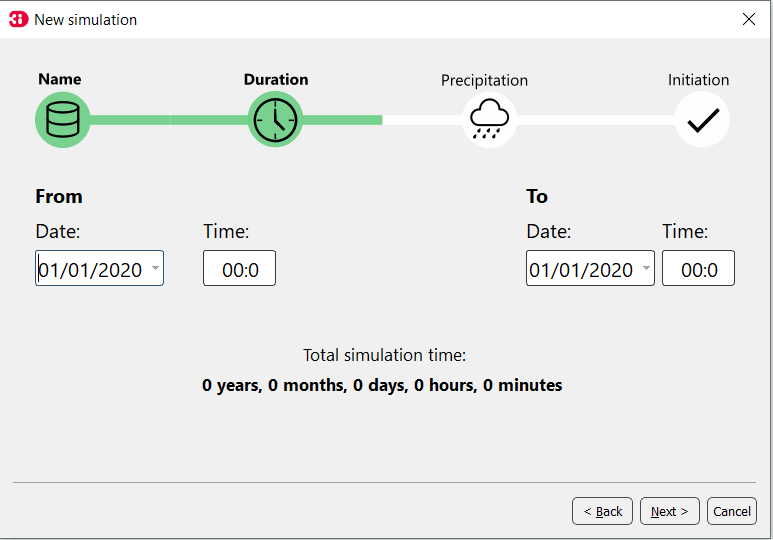
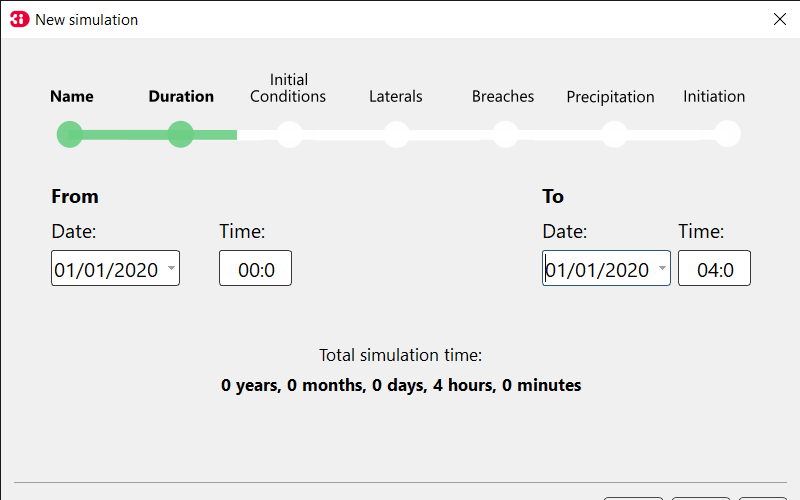
Qgis api client extension (#78)
* wip

* new screenshot

* changed screenshot for duration

* changed screenshot for new simulation

* added part doc on initial conditions

* work in progress documentation

* work in progress documentation

* added breaches

* added description on lizard

* aanpassingen govert

* adjusting story on Modeller Interface

diff --git a/source/d_qgis_plugin.rst b/source/d_qgis_plugin.rst
@@ -5,7 +5,8 @@ Modeller Interface
 
 Introduction
 --------------
-The modeller interface consists of QGIS with a 3Di Toolbox as a QGIS plugin on top for working with 3Di models and netCDF results. Since the Plugin Release of March 4th 2019, the plugin is only supported by QGIS 3.4.5. An older version of the plugin will remain available for QGIS 2.18. 
+The Modeller Interface is the interface to use on your laptop to build and analyse 3Di models and results locally. To do this, no internet connection is required. It is also the interface to interact with the API and download results from the 3Di calculation servers. It consists of QGIS with a preinstalled plugins: 3Di Toolbox to analyse results, 3Di API Client to start calculations and some third party plugins. The interface has been cleaned compared to a standard QGIS installation to show only relevant buttons for model building analysing. 
+Since March 4th 2019, the Modeller Interface is available for QGIS stable releases (3.4 and 3.10). For 3Di results before this date an older version of the plugin will remain available for QGIS 2.18. 
 As a user you can choose to either:
 
 - Install the `Modeller Interface <https://docs.3di.live/modeller-interface-downloads/3DiModellerInterface-OSGeo4W-3.10.6-1-Setup-x86_64.exe>`_  or
@@ -16,12 +17,12 @@ The section below explains the use of various options of the modeller interface.
 
 .. _plugin_installation:
 
-Installation of plugin
-------------------------
+Plugin Installation 
+^^^^^^^^^^^^^^^^^^^^^^^^^^^^^^
 
 * QGIS 3.4 64bit Long term release(`Get QGIS <http://www.qgis.org/en/site/forusers/download.html#>`_ use the standalone installers)
 
-    After installation of QGIS, set the interface language and locale to American English. This makes it easier to understand the instructions in this documentation. Also, some locales do not support scientific notations of numbers, required for very small numbers (e.g. 1e-09).
+    After the installation of QGIS, set the interface language and locale to American English. This makes it easier to understand the instructions in this documentation. Some locales do not support scientific notations of numbers, these are required for very small numbers (e.g. 1e-09).
 
     * Go to Settings > Options > General
     * Tick the box 'Override System Locale'
@@ -63,8 +64,8 @@ To install the 3Di-Toolbox plugin follow the steps below:
 8) To active the panel of the API client, choose plugins --> 3Di API client --> 3Di API client. Now the panel will be available.
 
 
-Overview of the 3Di API client
-------------------------------
+Overview of the 3Di API client **beta** 
+-----------------------------------------
 
 After installation of the plugin, a panel is available. If you don't see this panel, check the installation instructions.
 
@@ -82,7 +83,7 @@ The API client panel consists of the following parts:
 .. _simulate_api_qgis:
 
 Start
---------
+^^^^^^^^^^^^^^^
 
 To start simulating you first need to login and choose several options. 
 Start by clicking **start**. In the pop-up window choose **Load from Web**
@@ -101,7 +102,7 @@ Users that have access to run simulations for more than one organisation will ge
 .. figure:: image/d_qgisplugin_apiclient_login_choose_organisation.png
     :alt: Choose organisation
 
-Now choose only simulate (only option available at the moment):
+Now choose 'only simulate' (only option available at the moment):
 
 .. figure:: image/d_qgisplugin_apiclient_choose_simulate.png
     :alt: Choose simulate 
@@ -115,32 +116,141 @@ Choose the model that you like to run simulations on:
 Now you're ready to start simulating
 	
 Simulate
---------
+^^^^^^^^^^^^^^^
 
-Please note that the current implementation is in **beta** and only supports rainfall events and doesn't take into account laterals and initial waterlevels. 
+Please note that the current implementation is in **beta**. 
 
-To start simulating click the simulate button. The following window will be shown:
+The most used API options are included in the newest version of the plugin. Important consideration is a difference between API v1 and v3 how initial waterlevels, laterals and boundaries are handled. The current status is as follows:
+
+============================= ================= ================= ===============
+Forcings                        Spatialite          API             Live site
+============================= ================= ================= ===============
+Boundary conditions             v1, v3              -               v1, v3
+Initial water level             v1, v3              v1, v3          -
+Laterals  1D and 2D             v1                  v3              -
+============================= ================= ================= ===============
+
+This means that for *boundary conditions* nothing changes between API v1 and v3. Values are taken from the spatialite. The following requirements still hold for the boundary conditions: 
+
+- number of entries have to be exactly the same
+- time has to be the same value (e.g. al time series have 0, 10, 20, 40 as time. It is not possible to have a boundary condition with the time as 0,15,20,40)
+
+*Initial water levels* are taken from the spatialite if the users selects this in the wizard, see the section on initial conditions below for a 'how to'. 
+
+*Laterals* are not taken into account when added to the spatialite. The user has to add them to the API call for them to be taken into account. See the section on laterals below for a 'how to'. 
+
+To start simulating click the simulate button. Next, the following window will be shown:
 
 .. figure:: image/d_qgisplugin_apiclient_runningsimulations.png
     :alt: Choose simulate 
 	
-In this window an overview of current simulations within the organisation. In this panel simulations can be started, but also running simulations can be stopped.
-When starting a new simulation, you need to define a name for the simulation. Other users within your organisation will see this, and it can be used to look up simulations later. 
+This window shows an overview of current simulations for the specific organisation. In this panel simulations can be started and also stopped. 
+Using load templates enables you to re-use a previously stored template. All specific defined settings are automatically used in the wizard. 
+
+After clicking 'new simulation' the start screen of the wizard is shown:
+
+.. figure:: image/d_qgisplugin_apiclient_start_screen_new_simulation.png
+    :alt: Choose new simulation 
+	
+In this window various options, to be used in the calculation, can be defined. 
+
+**Boundary conditions**
+Not configurable yet. Boundary conditions are taken from the spatialite directly.
+
+**Initial conditions**
+To define the use of a (previously) saved state or initial waterlevels in 1D, 2D or Ground water.
+
+**Laterals**
+To select laterals to use in the model.
+
+**Breaches**
+To select a breach to open in the model.
+
+**Precipitation**
+To define precipitation in the model.
+
+**Multiple simulations** (becomes available when using either breaches or precipitation)
+To define multiple simulations with rainfall or breaches. Useful when simulating multiple events on the same model. 
+
+**Generate saved state after simulation**
+To save the end result of the simulation as a saved state.
+
+**Post-processing in Lizard**
+Works only for users with this module. Enables storing results in the cloud, automated postprocessing of waterdepth and water levels maps, time of arrival, flood hazard rating and damage estimations (only available in the Netherlands at the moment). Contact us at servicedesk@nelen-schuurmans.nl if you like to use this option and don't have access yet.
+	
+
+When starting a new simulation, you need to define a name for the simulation. Other users within your organisation will see this. It can also be used to look up simulations later. 
 
 .. figure:: image/d_qgisplugin_apiclient_new_simulation.png
     :alt: Choose new simulation 
-		
-The first step in any simulation is choosing the duration of the simulation:
+
+
+The first step in any simulation is choosing the simulation duration:
+
 
 .. figure:: image/d_qgisplugin_apiclient_choose_duration.png
     :alt: Choose duration
 	
-Then you can choose between a design rain, constant rain or a custom rainfall event. For all events an off set can be defined. The offset is the duration between start simulation and the start of the rainfall event. 
+The next steps depend on the selection from the initial screen of the wizard. If not checked, these steps will be omitted by the wizard.
+
+**Initial conditions**
+
+Initial conditions either refer to the use of saved state file, or the use of initial water level in 1D, 2D or groundwater (2D). 
+
+.. figure:: image/d_qgisplugin_apiclient_initialconditions_start.png
+    :alt: Choose initial conditions
+	
+1D options:
+
+- Predefined: this refers to the initial water level as defined in the column initial_waterlevel in the connection nodes in the spatialite. 
+- Global value: this would be a generic initial waterlevel value in m MSL which is applied in all 1D nodes of the model.
+
+2D options:
+
+- Raster: this refers to the initial water level raster as uploaded with the model to the model databank.
+- Global value: this would be a generic initial waterlevel value in m MSL which is applied in all 2D nodes of the model.
+
+Groundwater options:
+
+- Raster: This refers to the initial water level raster as uploaded with the model to the model databank.
+- Global value: This would be a generic initial waterlevel value in m MSL which is applied in all 2D ground water nodes of the model.
+
+**Laterals**
+
+Laterals can be uploaded using csv format for either 1D or 2D. 
+
+.. figure:: image/d_qgisplugin_apiclient_laterals_start.png
+    :alt: Choose laterals 
+
+The CSV file format is generated by a right-mouse click on table: v2_1d_lateral. Then choose export --> save features as --> 
+
+Select csv as outputformat. Choose a filename and location to store and click OK. the file should like like this:
+
+.. figure:: image/d_qgisplugin_apiclient_laterals_export_csv_example.png
+    :alt: Export laterals as csv
+	
+**Breaches**
+
+A breach can be selected using the menu below:
+
+.. figure:: image/d_qgisplugin_apiclient_breaches.png
+    :alt: Breaches 
+
+Required is the ID of the breach in the model, this is the same id as the id of the v2_connected_pnt in the 2D in the spatialite database. 
+
+
+**Precipitation**
+To define precipitation in the model 
+
+**Multiple simulations** (becomes available when using either breaches or precipitation)
+To define multiple simulations with rainfall or breaches. Useful when simulating multiple events on the same model. 
+
+Then you can choose between design rain, constant rain or a custom rainfall event. For all events an off set can be defined. The offset is the duration between start simulation and the start of the rainfall event. 
 
 .. figure:: image/d_qgisplugin_apiclient_rain_custom.png
     :alt: Choose custom rain
 
-When choosing a custom rain, the csv format is minutes, rainfall in mm for that timestep
+When choosing a custom rain, the csv format is minutes, rainfall in mm for that timestep.
 
 .. figure:: image/d_qgisplugin_apiclient_csv_format.png
     :alt: Example CSV
@@ -150,9 +260,53 @@ After choosing all the settings check the overview, press Next and Add to Queue.
 .. figure:: image/d_qgisplugin_apiclient_preview_simulation.png
     :alt: Example CSV
 	
+**Post processing in Lizard**
 
+Post processing in Lizard is only available for users that have this module.
+
+.. figure:: image/d_qgisplugin_apiclient_postprocessing_lizard.png
+    :alt: Example CSV
+	
+*Basic processed results*
+
+Stores the 3Di output files in the Lizard platform:
+
+- Result NetCDF (containing actual values)
+- Aggregate NetCDF (availability and content dependent on user settings. required for water balance tool in Modeller Interface)
+- Grid administration (gridadmin.h5 file. required to load NetCDF results in Modeller Interface)
+- Calculation core logging (A zip containing logfiles)
+
+As a service, the following maps are available in Lizard:
+
+- water depth maps per output time step
+- maximum water depth map
+- flood hazard rating
+- rise velocity
+- water level
+- max water level
+- max velocity
+- rainfall 
+
+All maps can be downloaded as GTiff, either via the interface demo.lizard.net or via the lizard API.
+
+*Arrival time map*
+
+When this is checked a map with arrival time is being calculated showing the time of arrival of water per pixel in hours. 
+
+*Damage estimation*
+
+Only available in the Netherlands: automated estimate of damage as a result of flooding. Takes into account water depth and duration of flood. Result is the following damage maps:
+
+- Water depth (WSS)
+- Damage (direct)
+- Damage (indirect)
+- Total damage
+
+And a damage summary in csv format. For more information check the documentation here: https://docs.3di.lizard.net/d_results_from_lizard.html
+
+	
 Results
---------
+^^^^^^^^^^^^^^^
 	
 After a simulation is finished the results will be stored on our servers for 7 days. The files can be download via the Results button.
 
